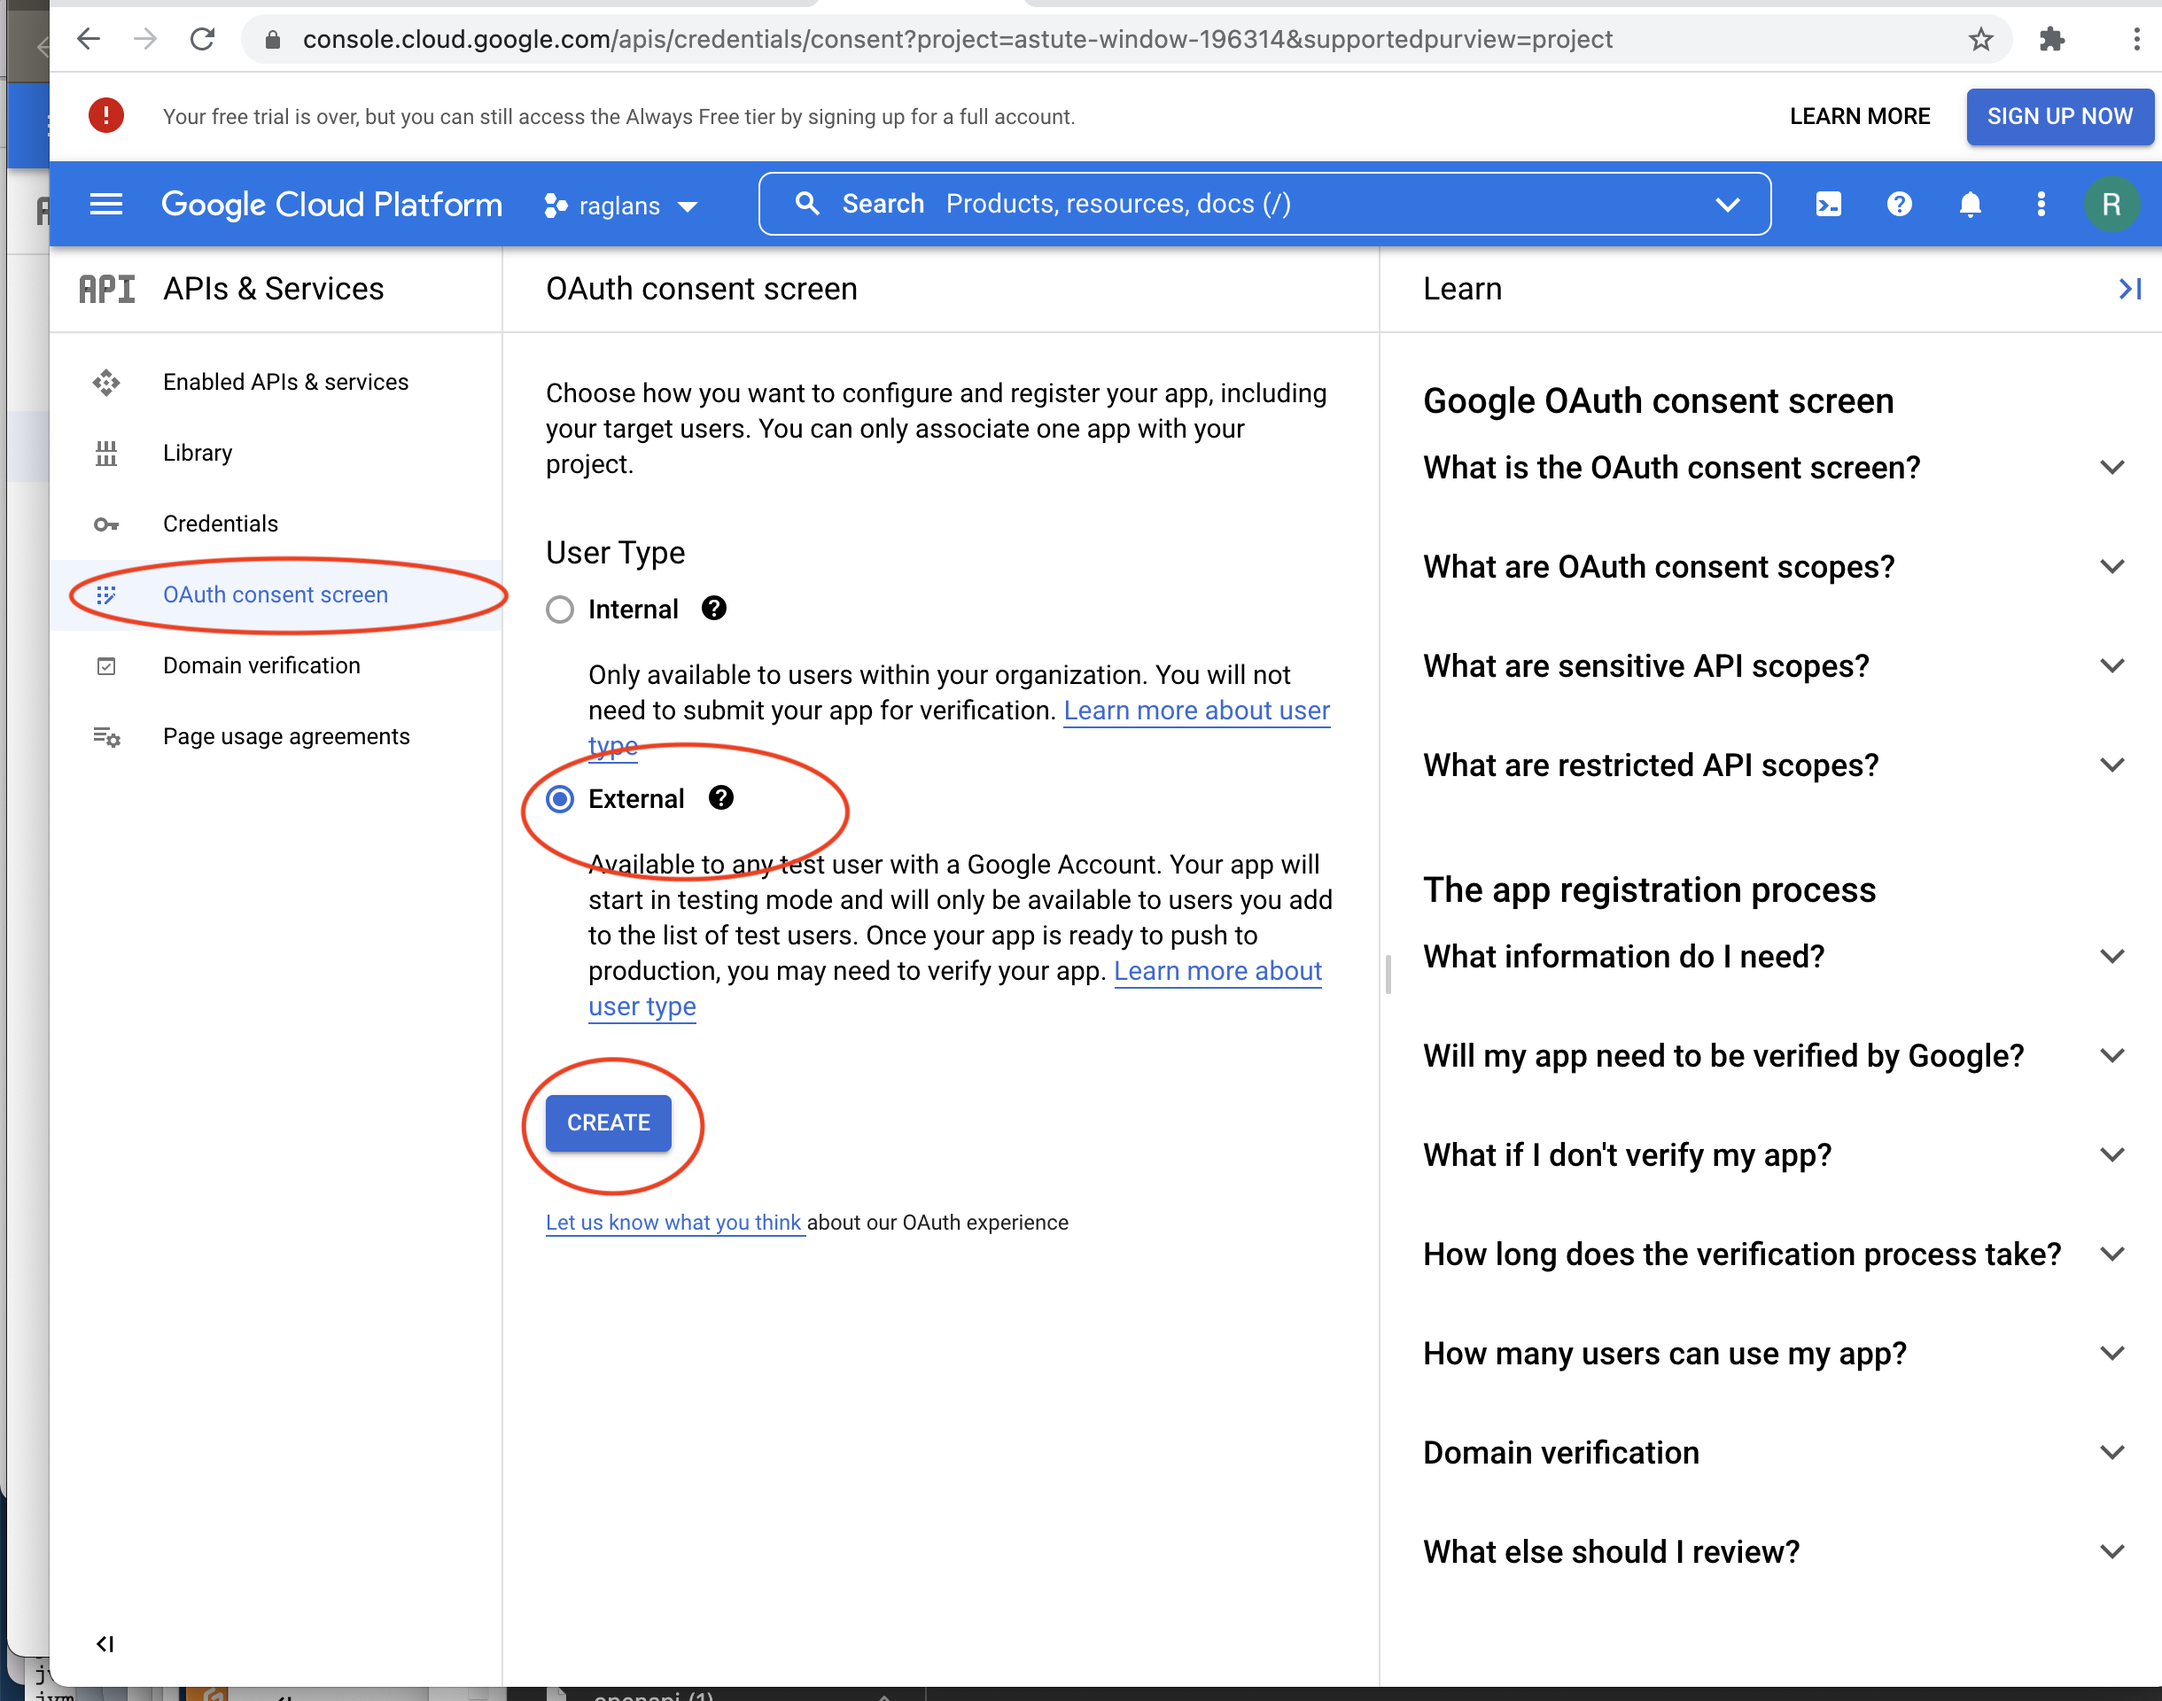
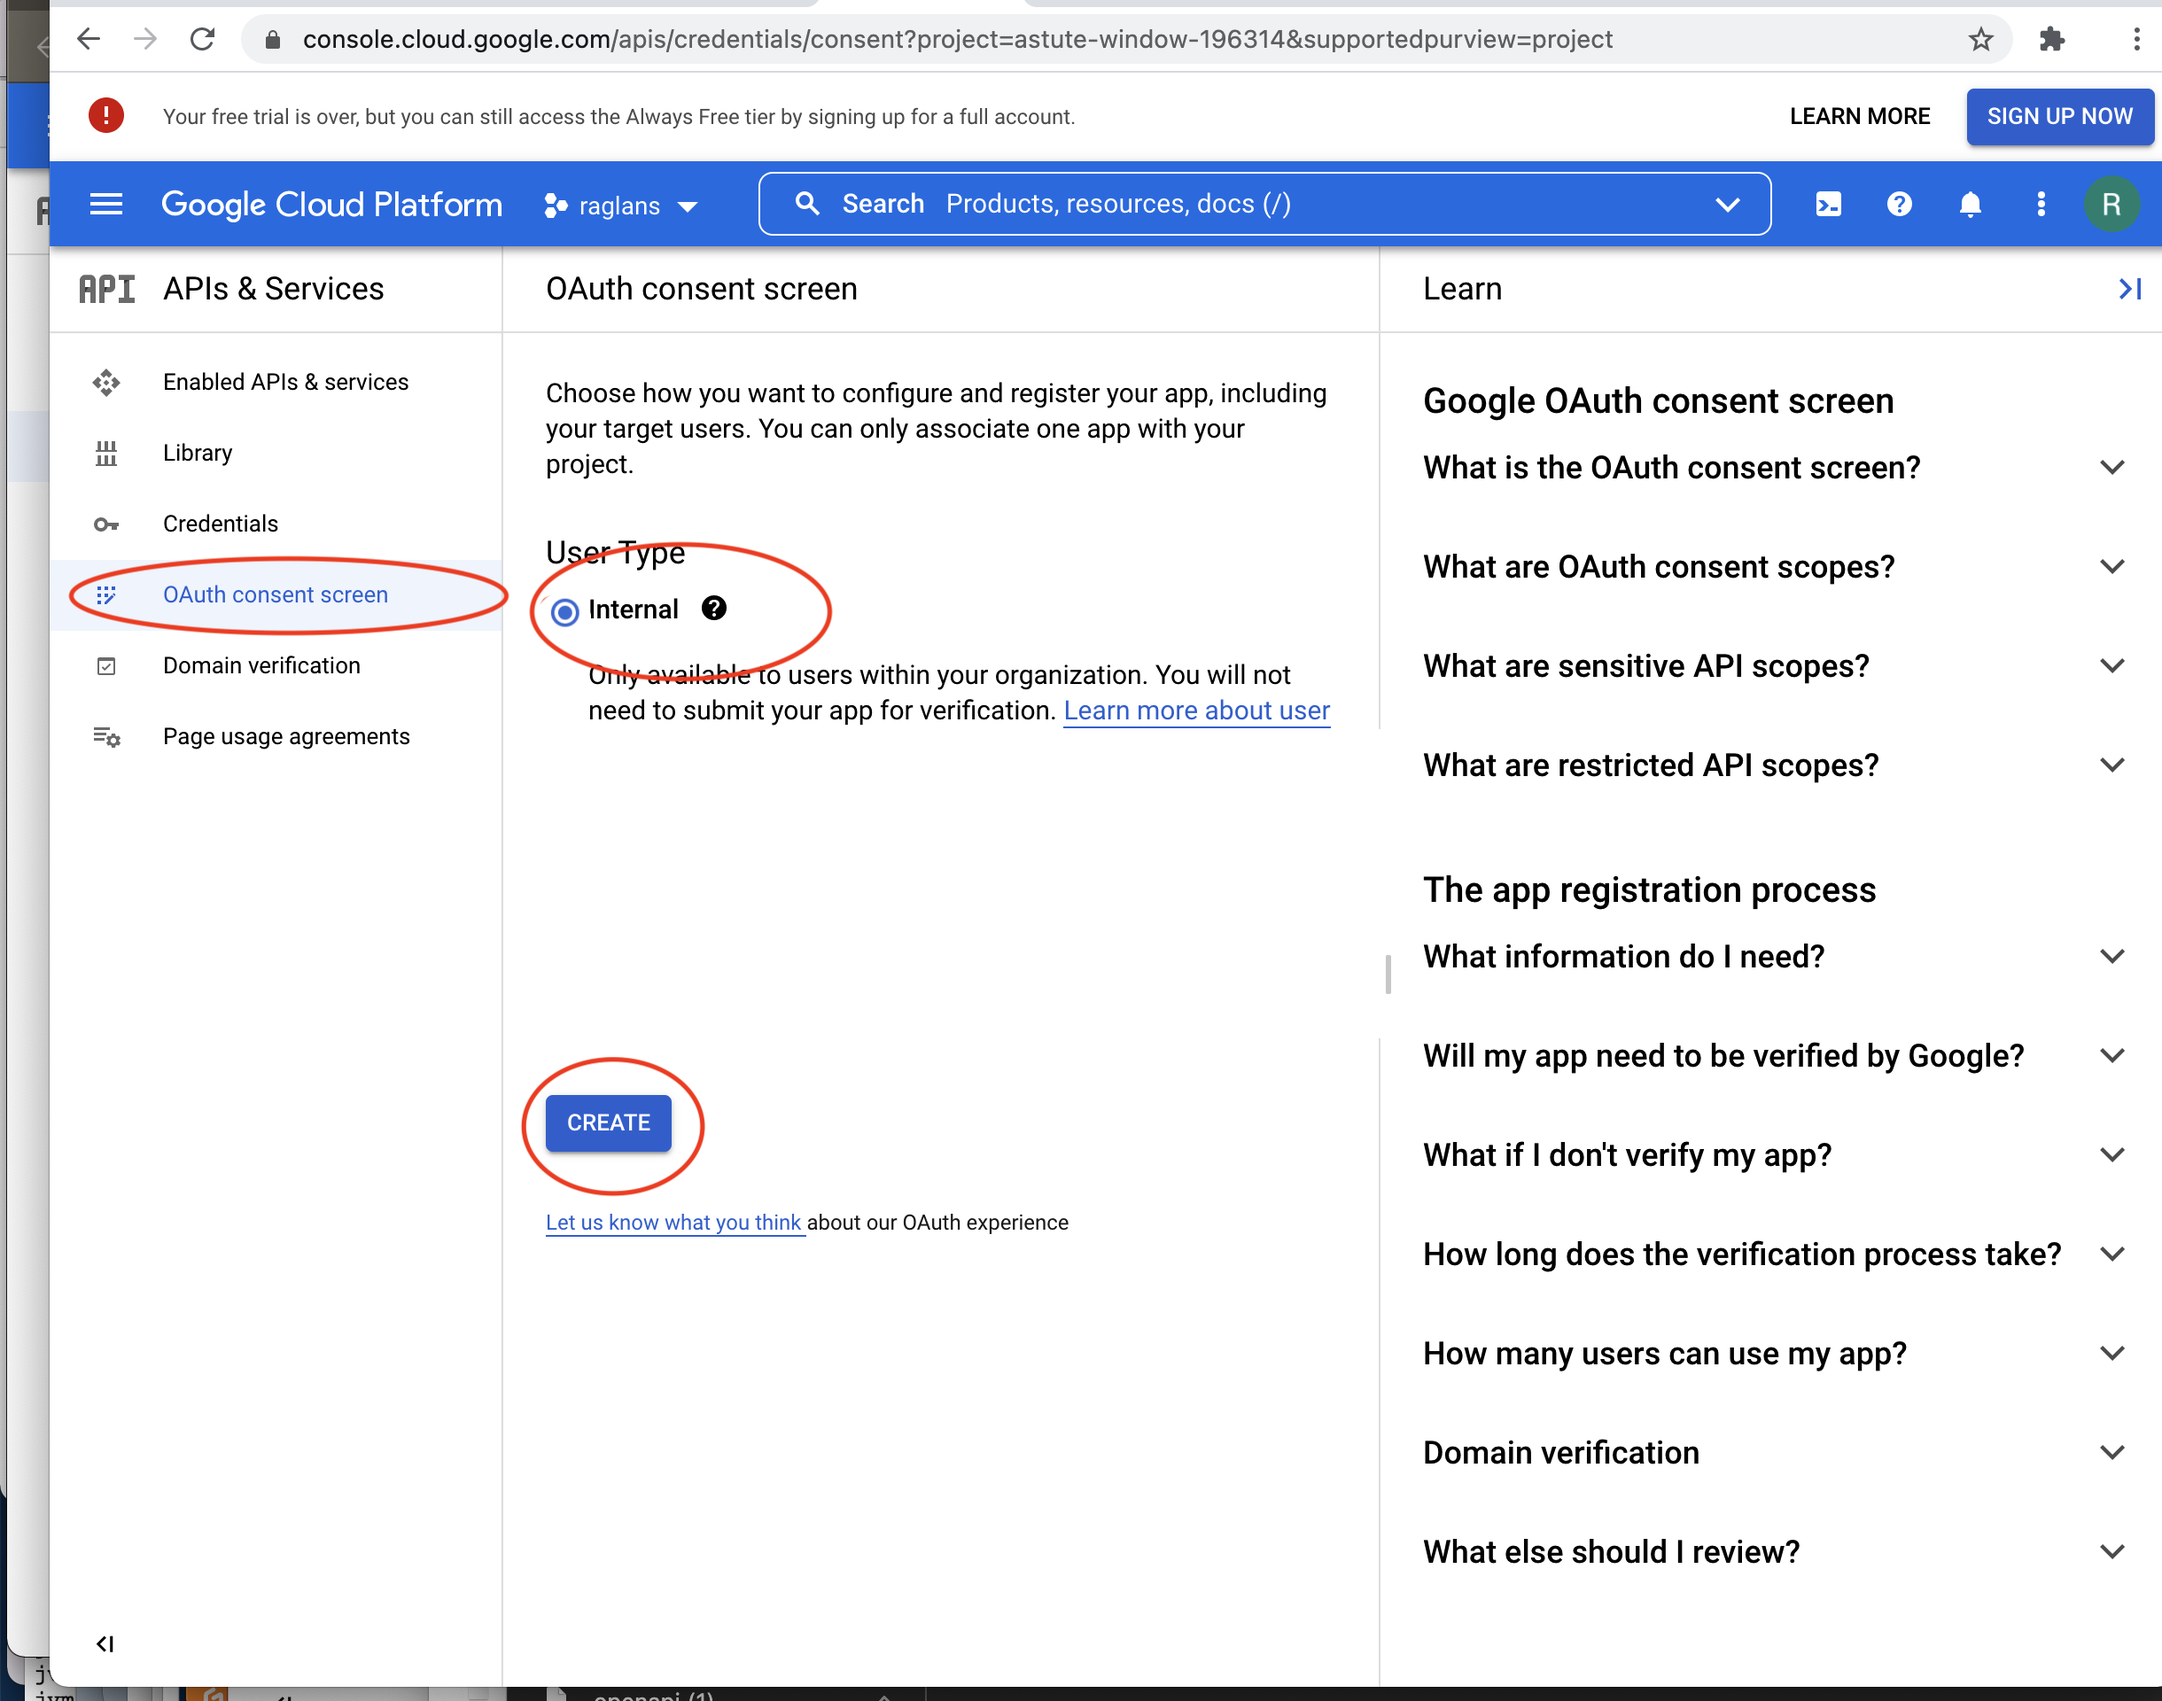
slight changes in SSO login

Changed region(s): [[0.2492, 0.4375, 0.623, 0.5938], [0.2492, 0.3125, 0.3738, 0.4062]]

diff --git a/README.md b/README.md
@@ -724,6 +724,10 @@ Pick the appropriate values as shown below and complete the consent.
 
 ![ouath](data/img/Oauthconsent2.png?raw=true)
 
+Make sure the project is setup for internal testing (and not for production) as shown below with the "MAKE INTERNAL".
+
+![ouath](data/img/Oauthconsent3.png?raw=true)
+
 Now click on the `credentials` tab, `+ CREATE CREDENTIALS` tab and finally the `OAuth Client ID` dropdown as shown in the following screen.
 
 ![ouath](data/img/Oauthcred0.png?raw=true)
